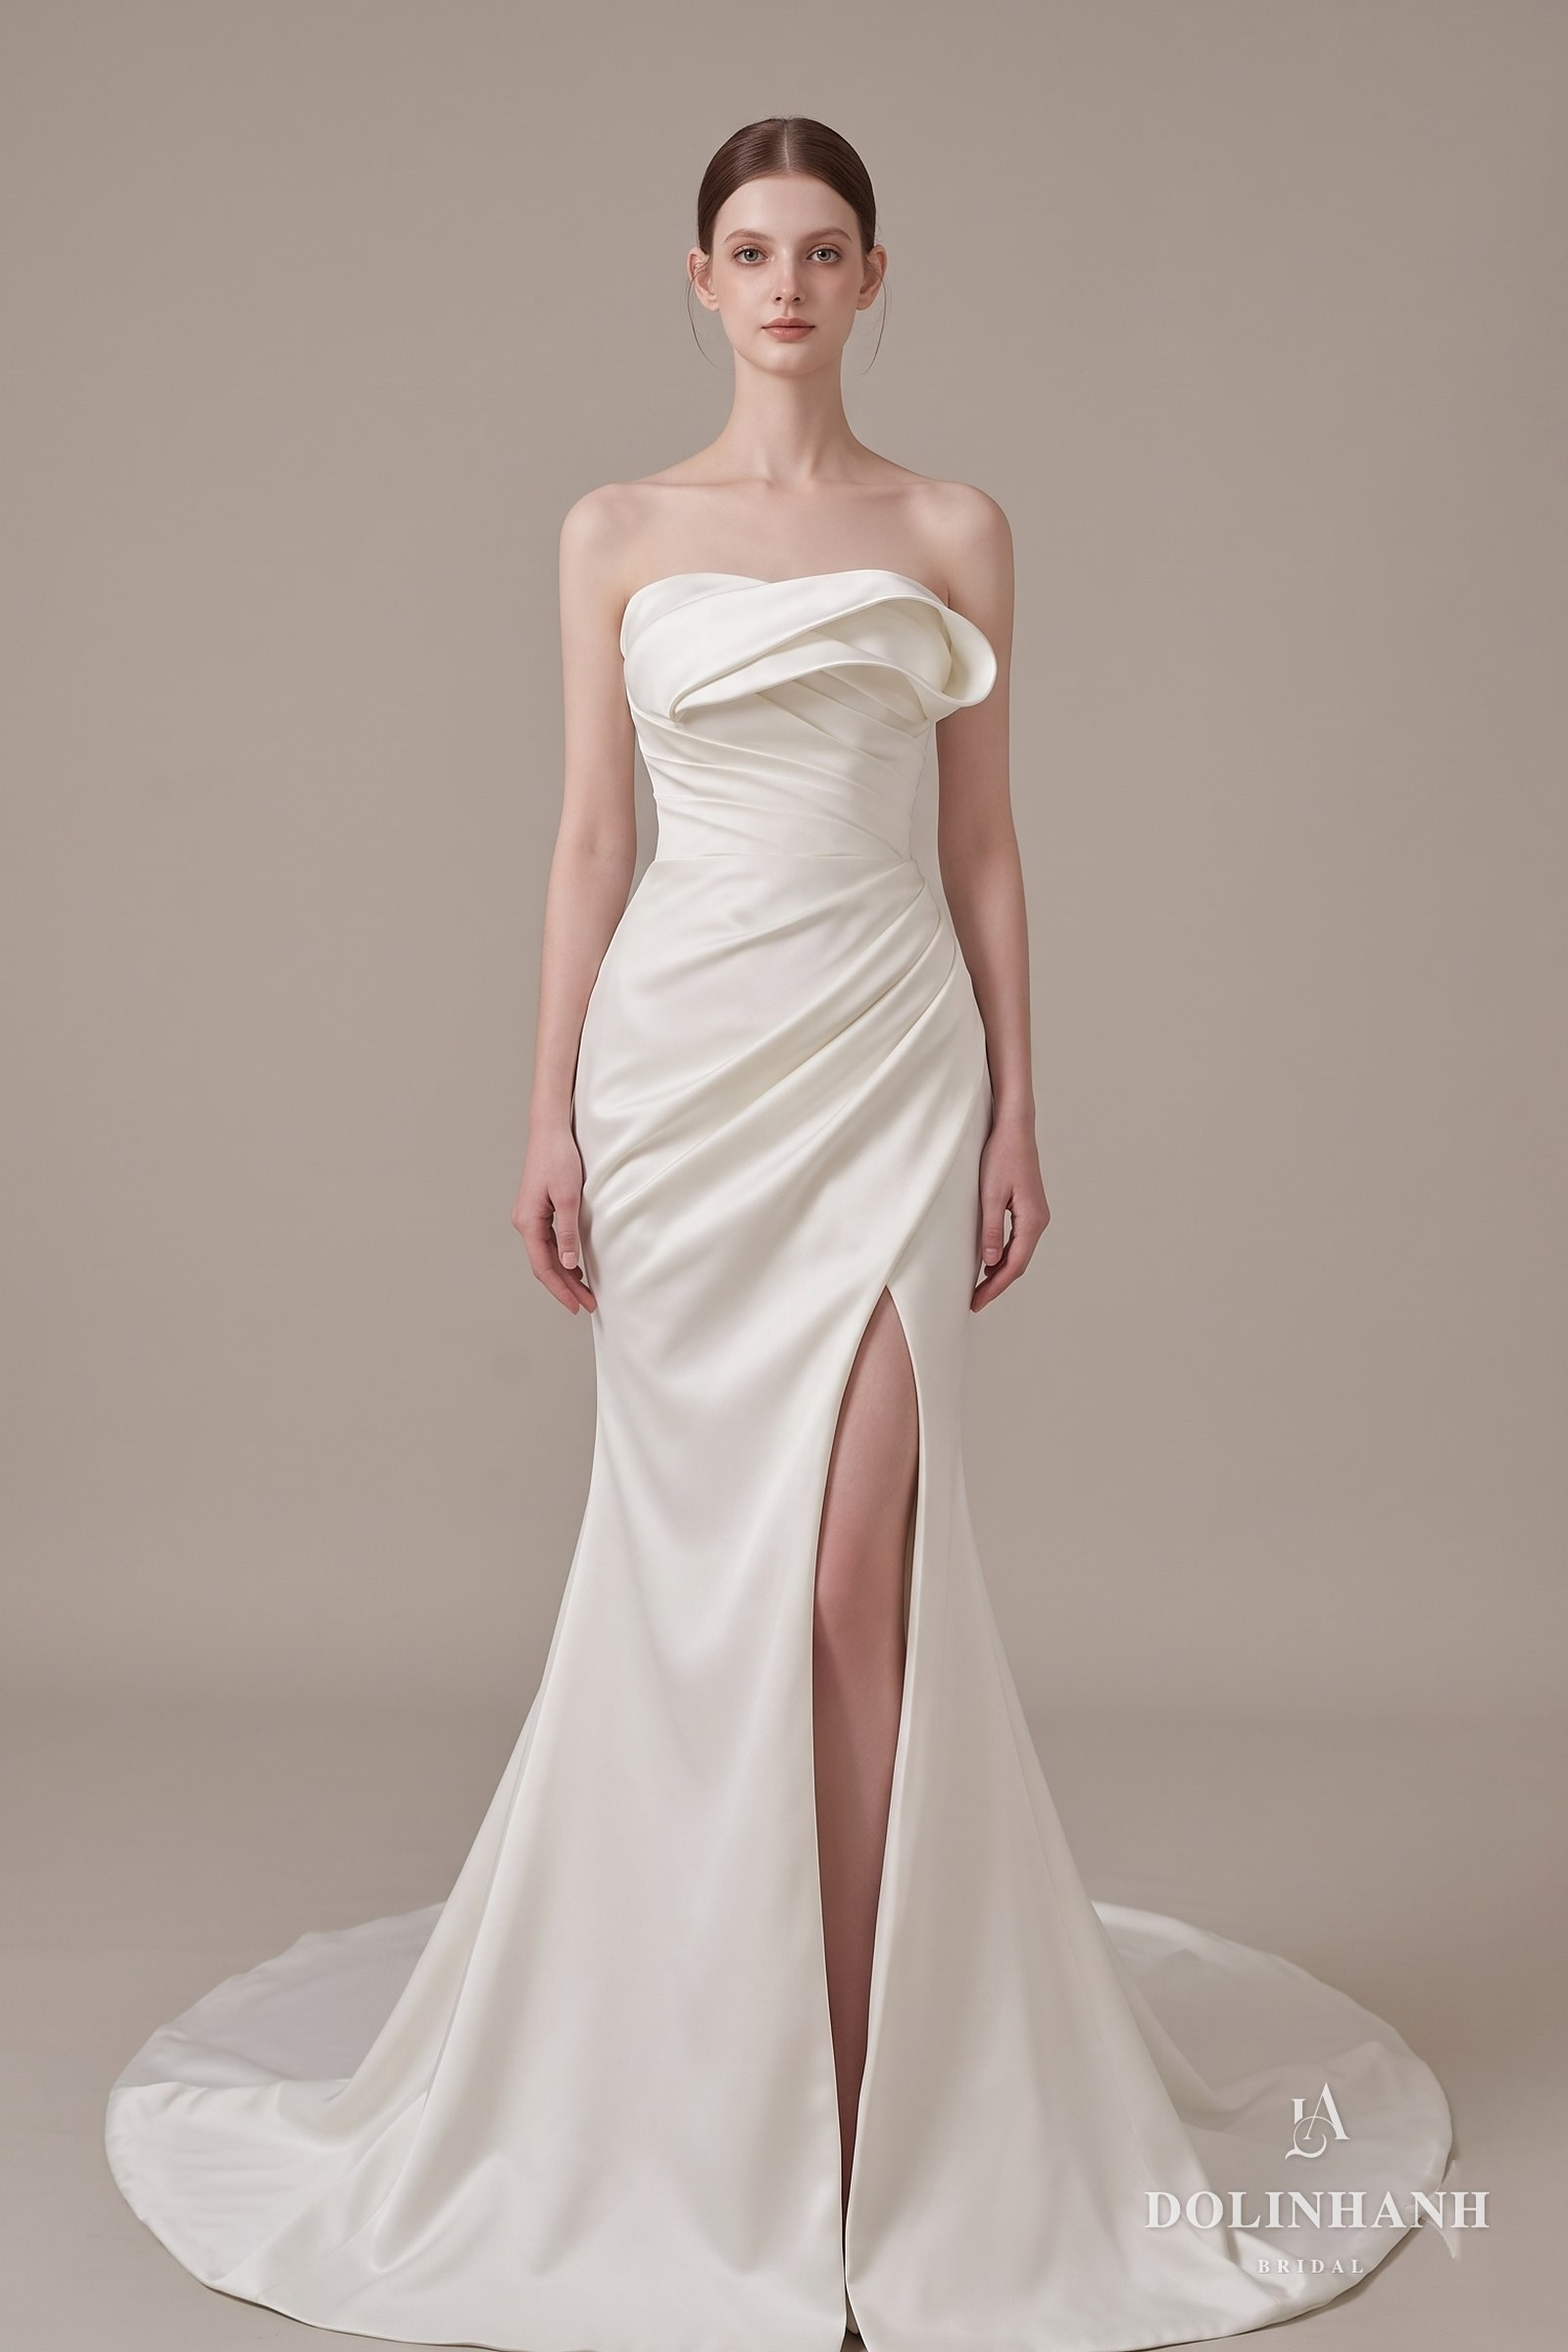
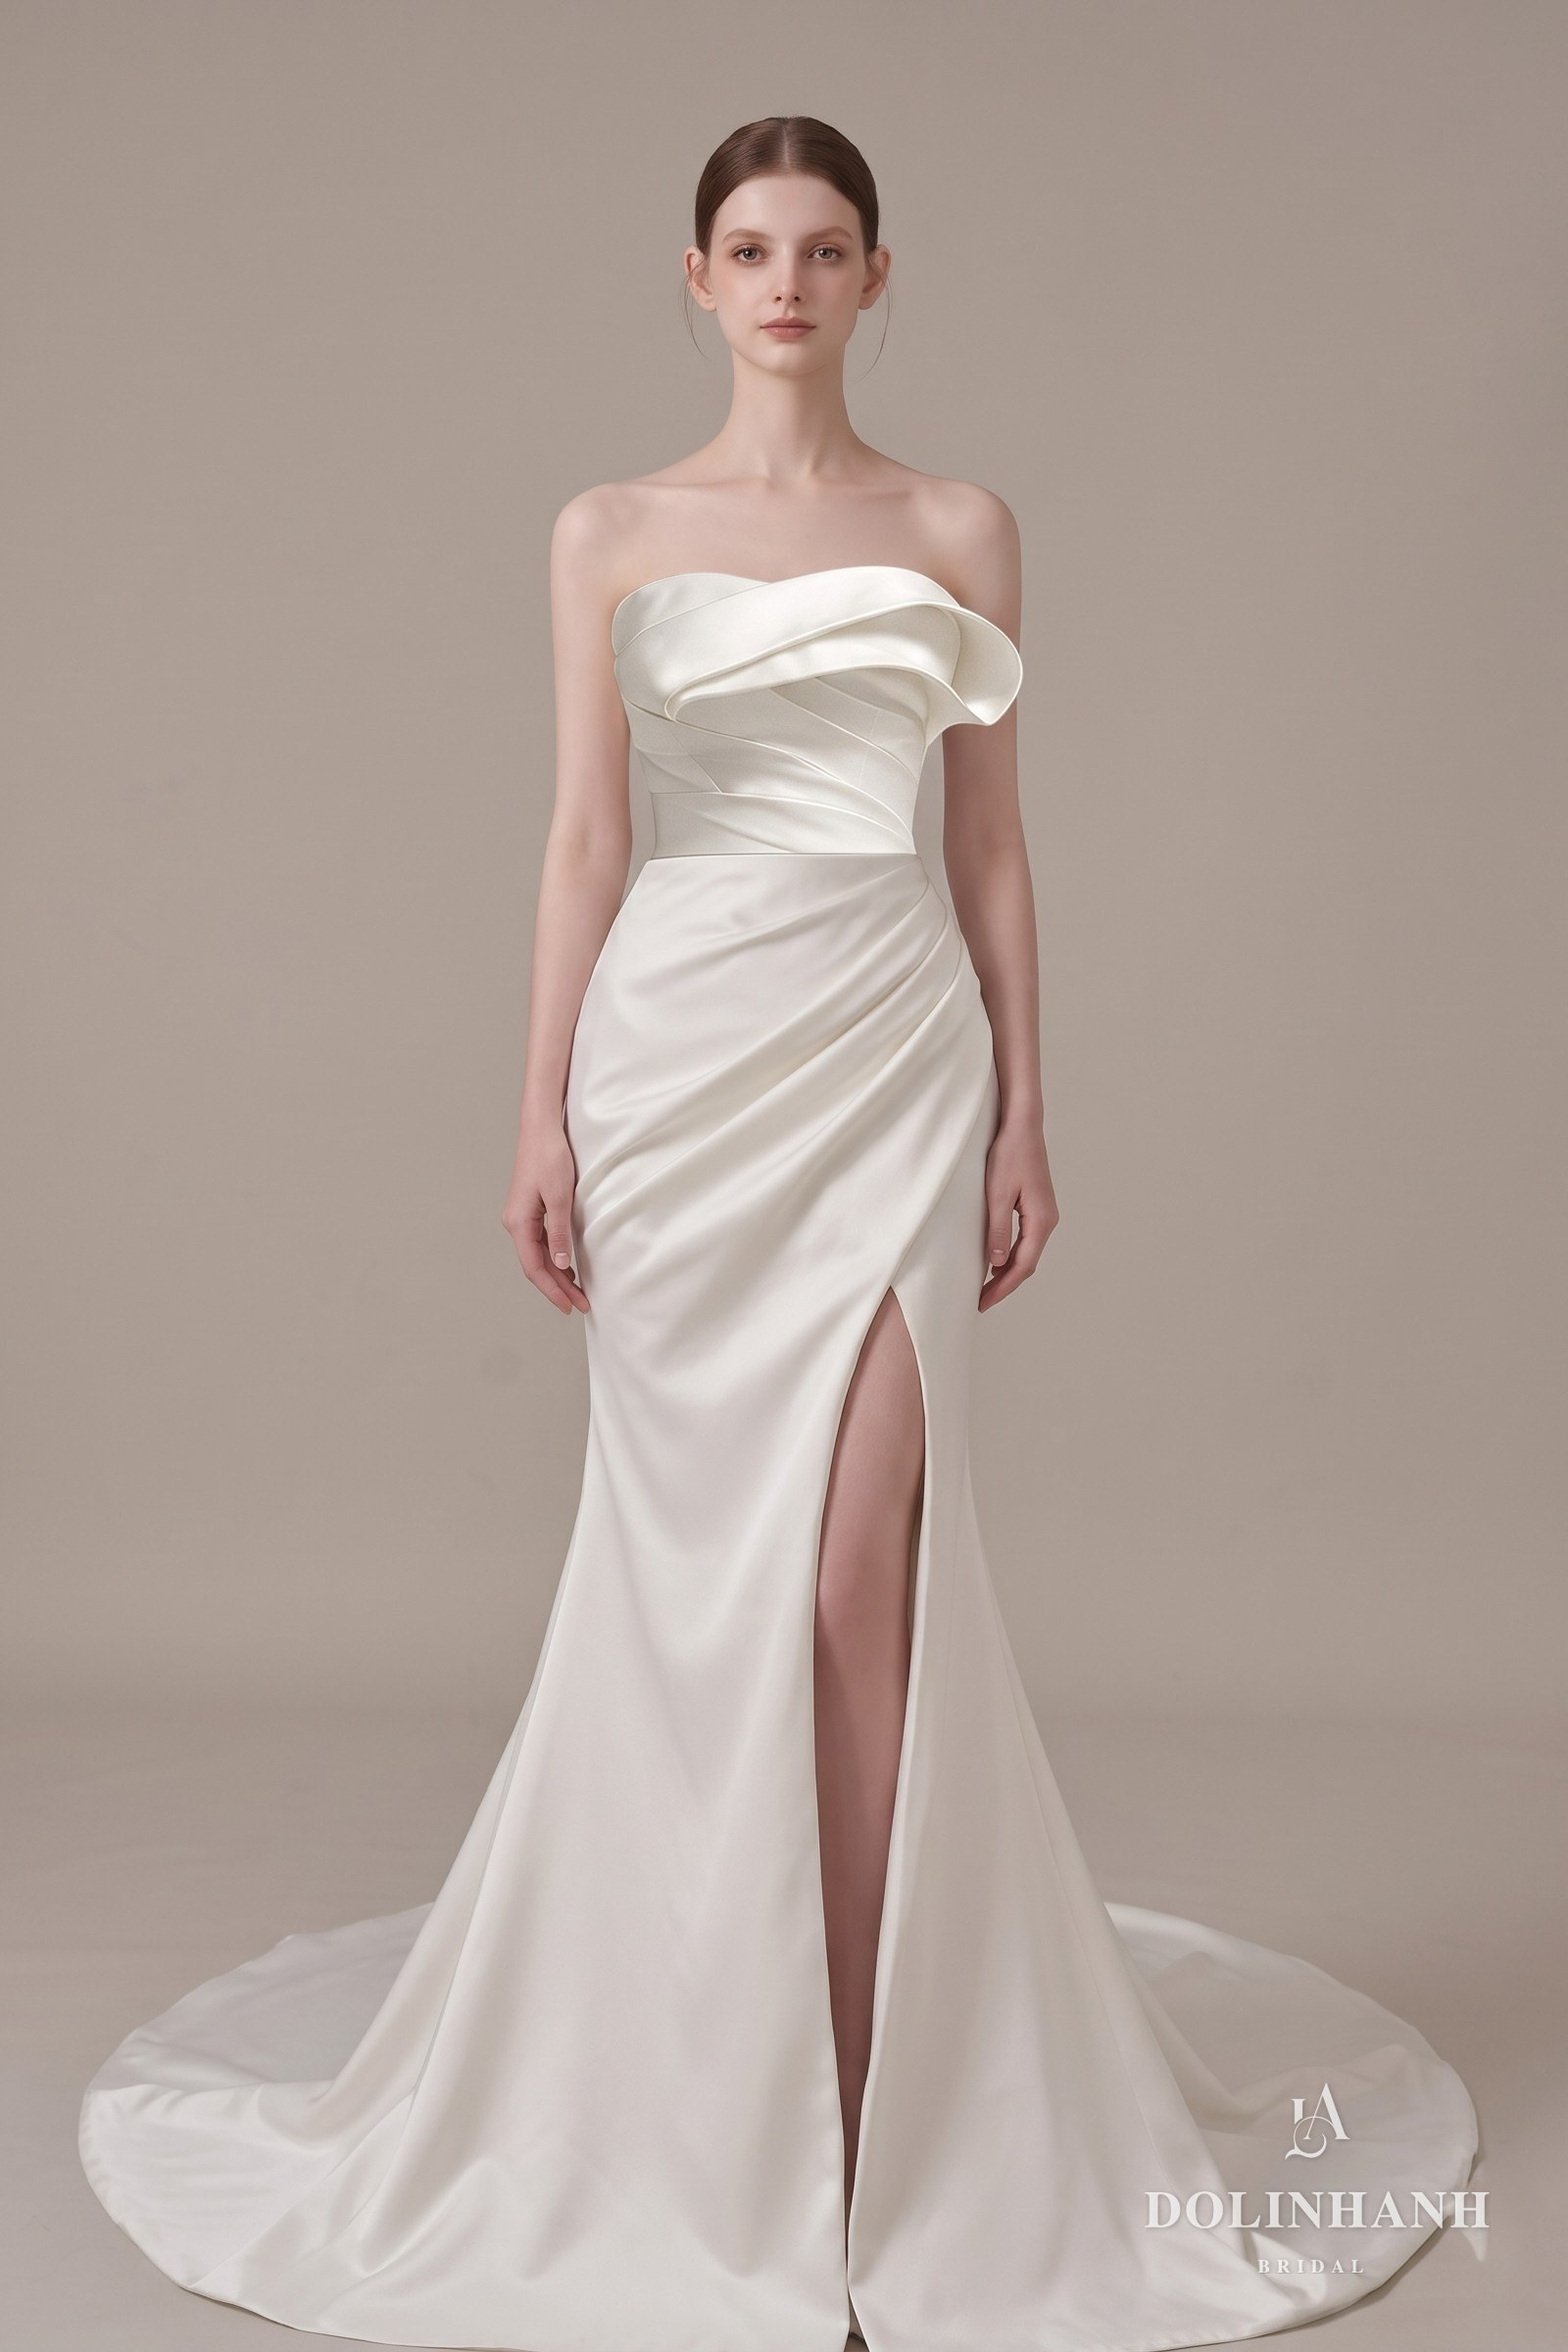
V229: MS 398: redraw, bodice like MS 234, keep hip drape

diff --git a/bo-suu-tap.html b/bo-suu-tap.html
@@ -3348,7 +3348,7 @@ src="https://www.facebook.com/tr?id=1358640082651240&ev=PageView&noscript=1"
         </figure>
         <figure data-dang="mermaid" data-mood="timeless" data-coso="hcm" data-sale="1">
           <div class="sl-khung">
-            <div class="sl" data-img="anh/vay/ms398/01.jpg?v=1"></div>
+            <div class="sl" data-img="anh/vay/ms398/01.jpg?v=0511"></div>
           </div>
           <div class="ss-ghim"><span class="ss-nhan"><i data-en="Sample" data-zh="样品">Sample</i><b data-en="Sale" data-zh="特卖">Sale</b></span></div>
           <figcaption><span class="kind" data-en="Dolinhanh Bridal" data-zh="Dolinhanh Bridal">Dolinhanh Bridal</span><span class="nm">MS 398</span><span class="de" data-en="Draped strapless with slit" data-zh="垂坠抹胸开衩婚纱">Cúp ngực xếp nếp, xẻ tà</span><span class="gia" data-goc="US$880">US$440</span></figcaption>
